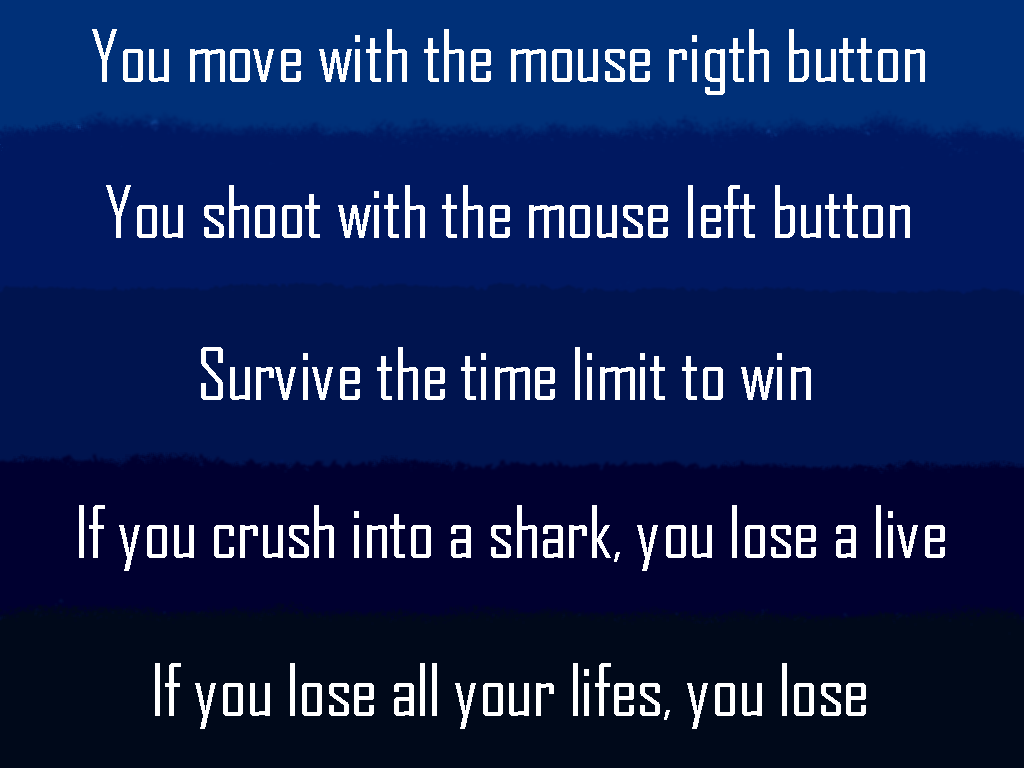
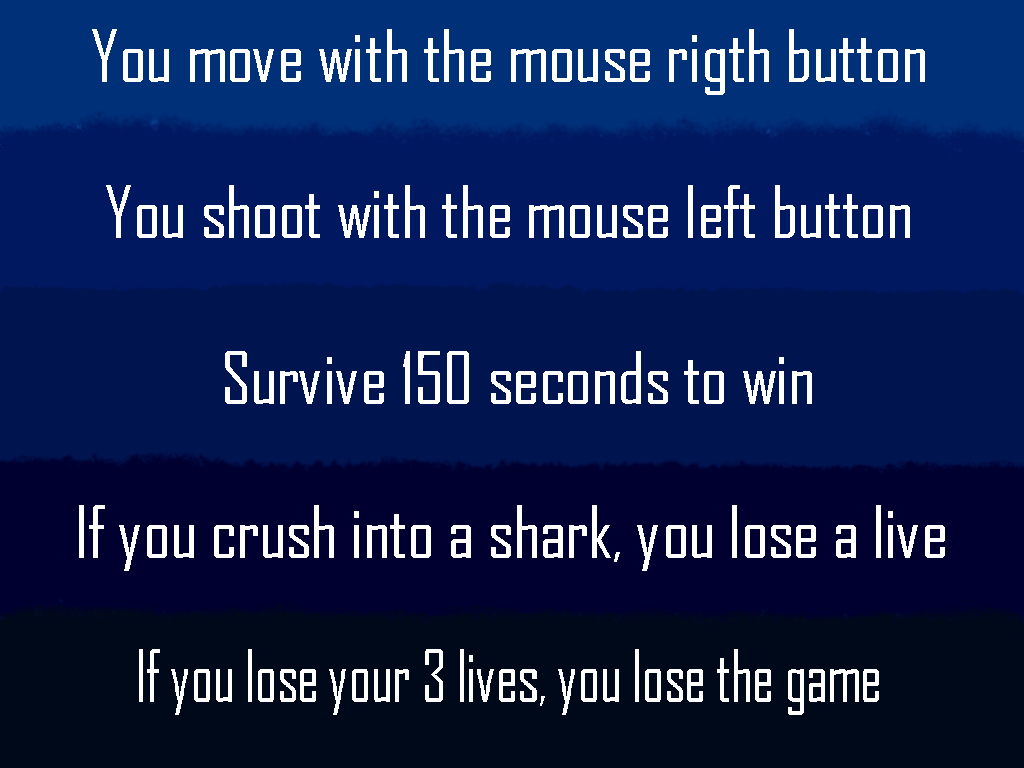
Add new rules (Project finish)

Changed region(s): [[0.125, 0.8438, 0.875, 0.9375], [0.1875, 0.4375, 0.8125, 0.5312]]

diff --git a/Asteroids/Asteroids/runGame.cpp b/Asteroids/Asteroids/runGame.cpp
@@ -129,15 +129,11 @@ void runGame()
         case GameScenes::Menu:
         case GameScenes::Win:
         case GameScenes::Rules:
+        case GameScenes::Lose:
             StopMusicStream(gameMusic);
 
             PlayMusicStream(menuMusic);
             UpdateMusicStream(menuMusic);
-
-            resetStats(player, gameTimer);
-            break;
-
-        case GameScenes::Lose:
 
             resetStats(player, gameTimer);
             break;
@@ -229,12 +225,15 @@ void gamePlay(Player& player, GameScenes& actualScene, float gameTimer)
 
 void drawGamePlay(Player& player, Texture2D background, Texture2D harpoon)
 {
+    Vector2 posCrosshair = GetMousePosition();
+
     DrawTexture(background, 0, 0, WHITE);
     checkDrawBullets(player, harpoon);
-    drawPlayer(player, WHITE, playerSpray, crosshair);
+    drawPlayer(player, WHITE, playerSpray);
     drawAsteroidArray(asteroidsArray);
     checkGameCollisions(player, asteroidsArray, smallEnemy, mediumEnemy, bigEnemy, deathSound, dyingFish, asteroidCounter);
     DrawText(TextFormat("%01i", player.lifes), 20, 20, 40, WHITE);
+    DrawTexture(crosshair, posCrosshair.x, posCrosshair.y, WHITE);
 }
 
 void resetStats(Player& player, float& gameTimer)

diff --git a/Asteroids/Asteroids/player.cpp b/Asteroids/Asteroids/player.cpp
@@ -29,11 +29,10 @@ void playerMovement(Player& player, int screenWidth, int screenHeight, Sound sho
 	screenReflection(player, screenWidth, screenHeight);
 }
 
-void drawPlayer(Player player, Color color, Texture2D playerSpray, Texture2D crosshair)
+void drawPlayer(Player player, Color color, Texture2D playerSpray)
 {
 	bulletAngle = atan2(player.dir.y, player.dir.x) * RAD2DEG;
 
-	DrawTexture(crosshair, posMouse.x, posMouse.y, WHITE);
 	DrawTexturePro(playerSpray, { 0, 0, static_cast<float>(playerSpray.width), static_cast<float>(playerSpray.height) }, { player.pos.x, player.pos.y, static_cast<float>(playerSpray.width), static_cast<float>(playerSpray.height) }, { static_cast<float>(playerSpray.width / 2), static_cast<float>(playerSpray.height / 2) }, bulletAngle, WHITE);
 }
 

diff --git a/Asteroids/Asteroids/player.h b/Asteroids/Asteroids/player.h
@@ -24,7 +24,7 @@ struct Player
 
 void playerMovement(Player& player, int screenWidth, int screenHeight, Sound shootingSound);
 
-void drawPlayer(Player player, Color color, Texture2D playerSpray, Texture2D crosshair);
+void drawPlayer(Player player, Color color, Texture2D playerSpray);
 
 void screenReflection(Player& player, int screenWidth, int screenHeight);
 
